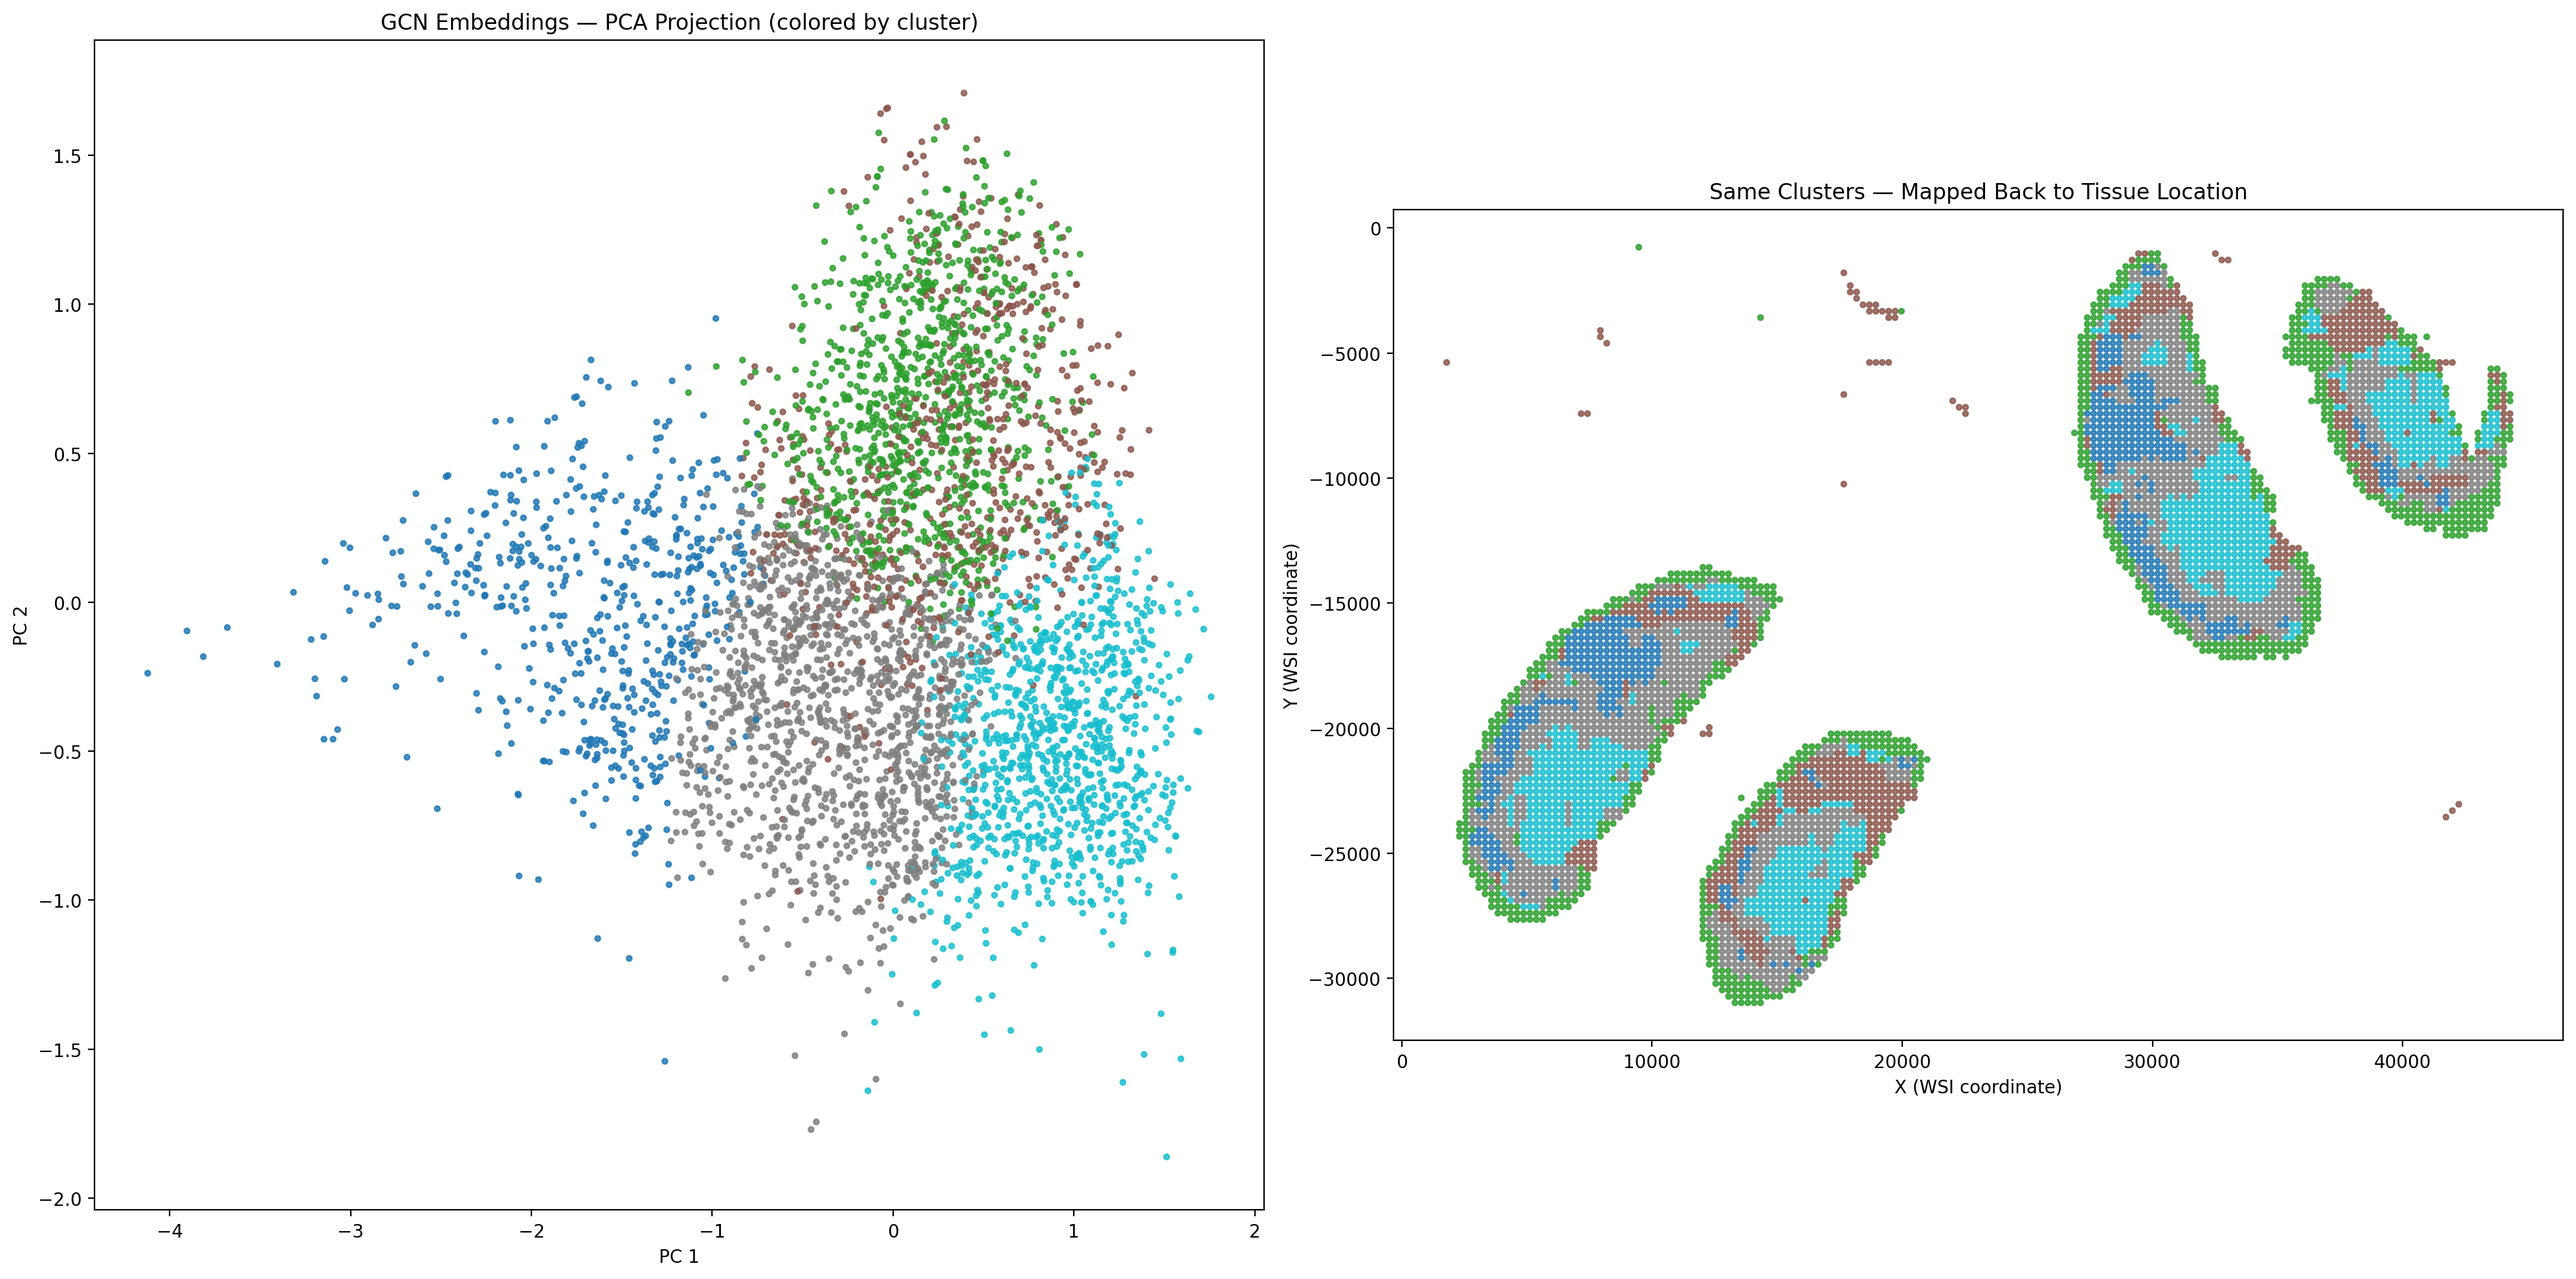
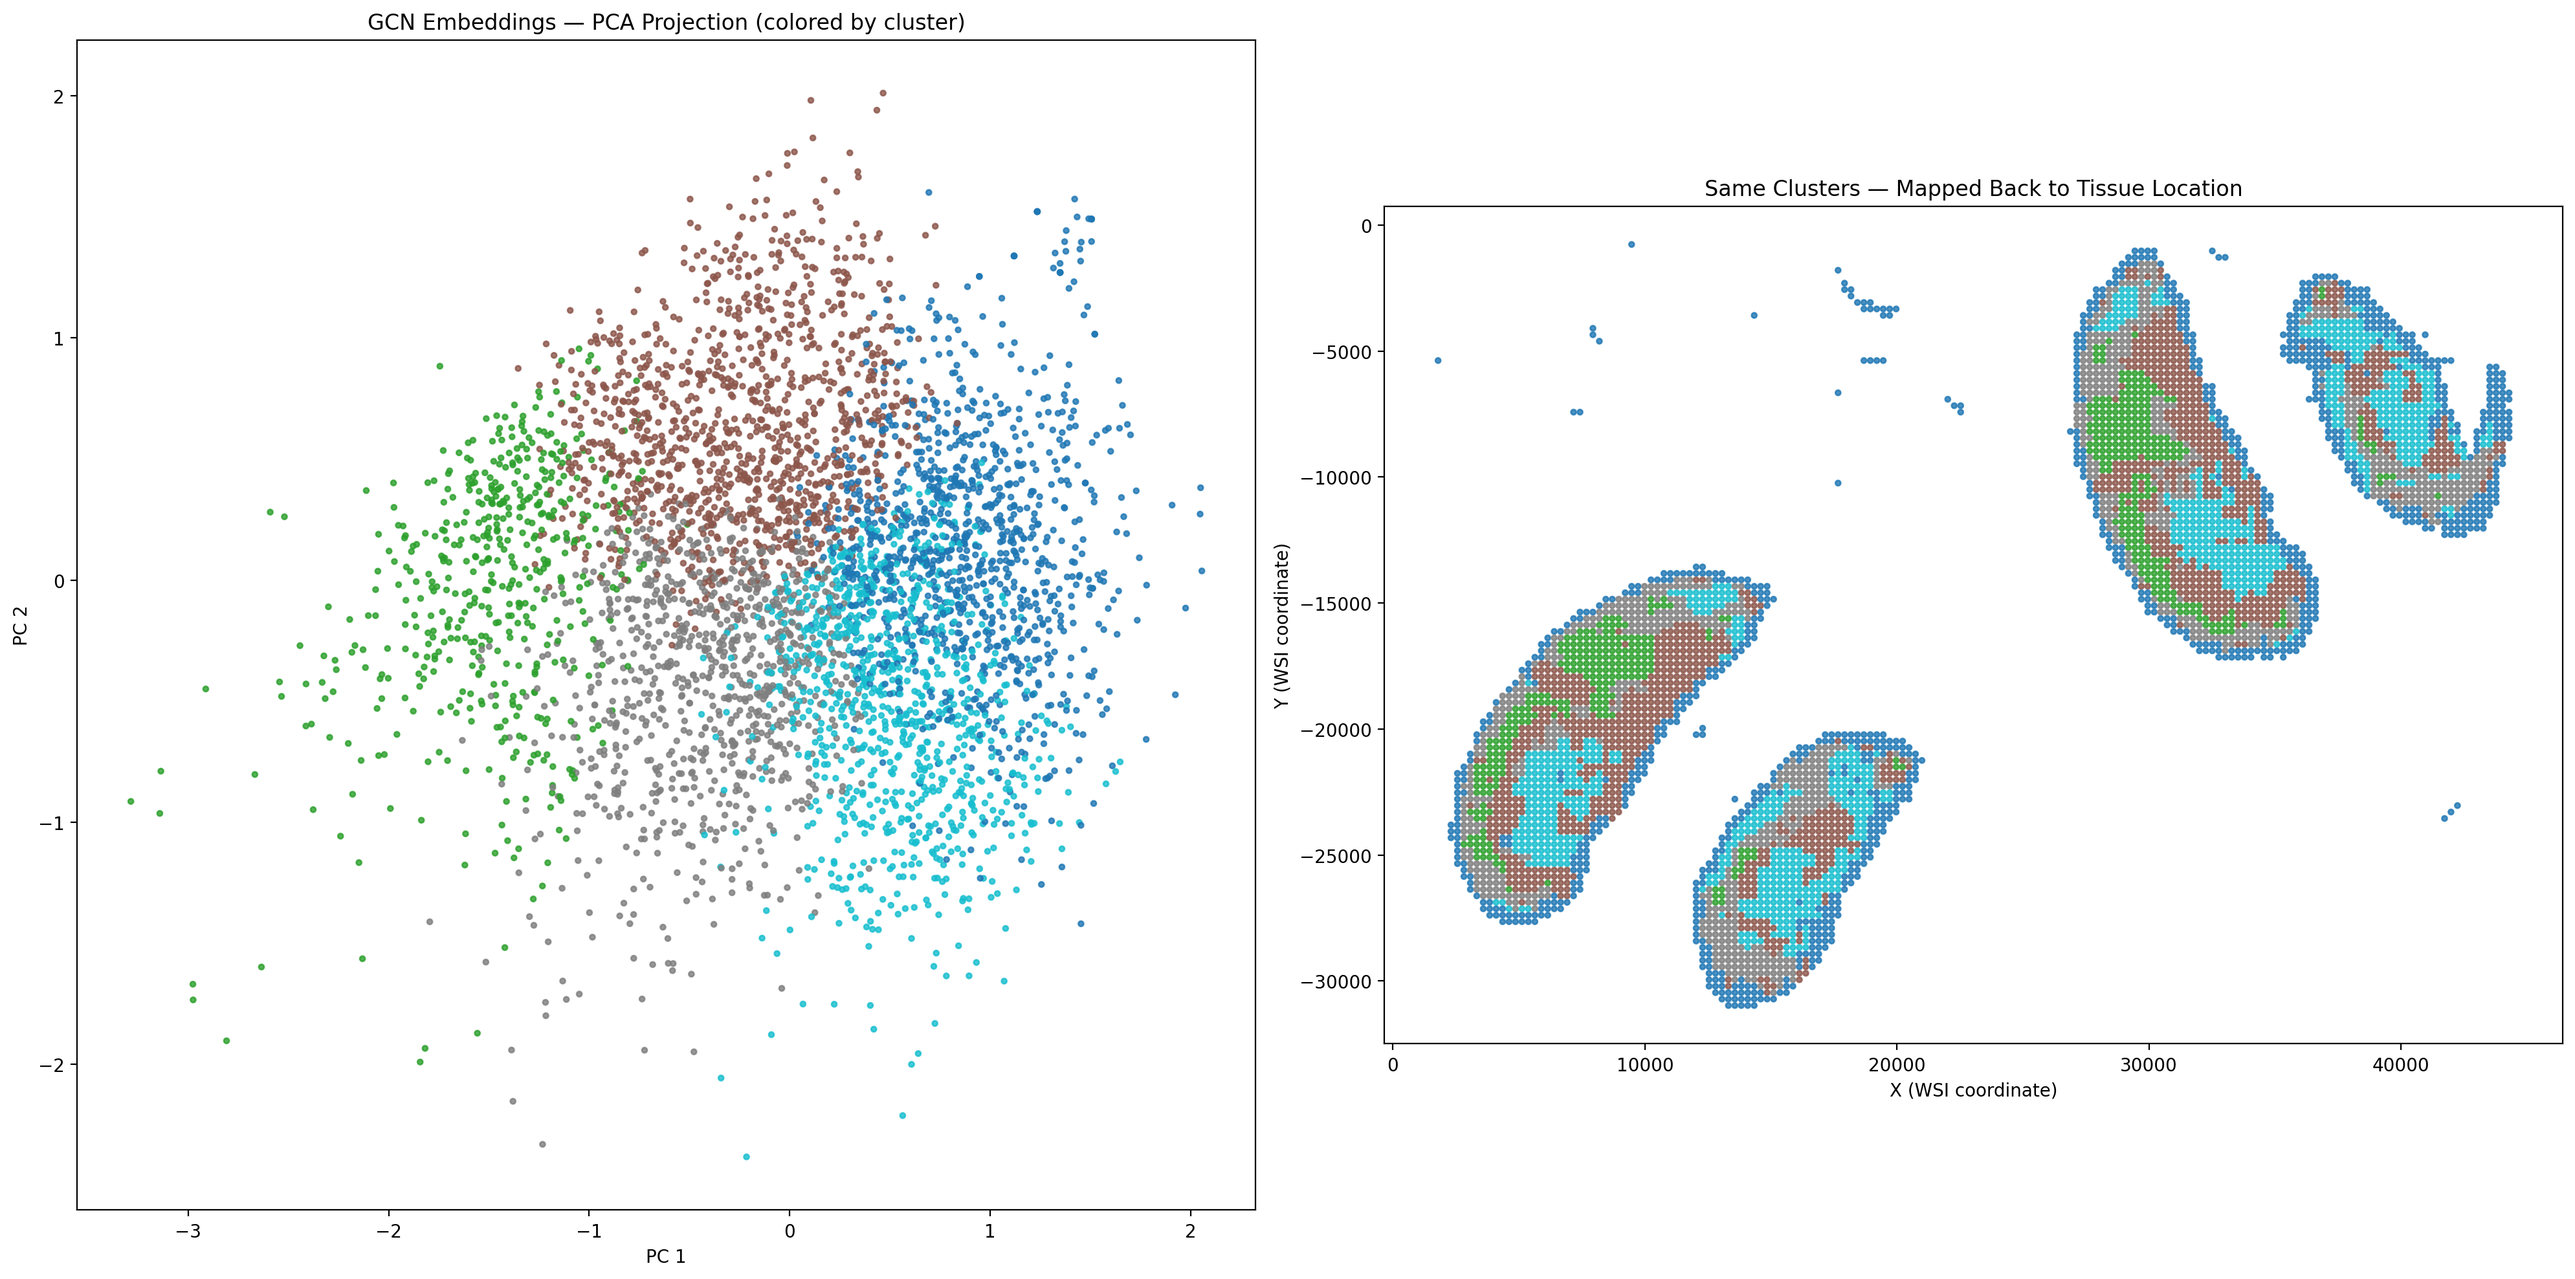
updated project files

diff --git a/src/final_vis.py b/src/final_vis.py
@@ -10,12 +10,10 @@ from sklearn.cluster import KMeans
 # ==========================================================
 # CONFIG — adjust these paths/names to match your files
 # ==========================================================
-GCN_FEATURES_PATH = "outputs/gcn_output.pt"     # <-- change to whatever
-                                                  #     GCN_layers.py saved,
-                                                  #     e.g. "outputs/features_128.pt"
+GCN_FEATURES_PATH = "outputs/features/gcn_output.pt"     
 COORDS_PATH = "outputs/patch_coordinates.csv"
 PATCH_FOLDER = "outputs/tissue_patches"
-EDGES_PATH = "outputs/edges.pt"
+EDGES_PATH = "outputs/graphs/edges.pt"
 N_CLUSTERS = 5          # try 4-8, tune by eye
 MARGIN = 512             # same border trim as vis_graph_fixed.py
 MIN_DEGREE = 2

diff --git a/src/vis_graph.py b/src/vis_graph.py
@@ -60,7 +60,7 @@ kept_files = set(tissue_coordinates["Patch_Name"])
 # ----------------------------------
 # Load tissue-only graph edges
 # ----------------------------------
-edges = torch.load("outputs/edges.pt")
+edges = torch.load("outputs/graphs/edges.pt")
 
 G_full = nx.Graph()
 G_full.add_edges_from(edges)
